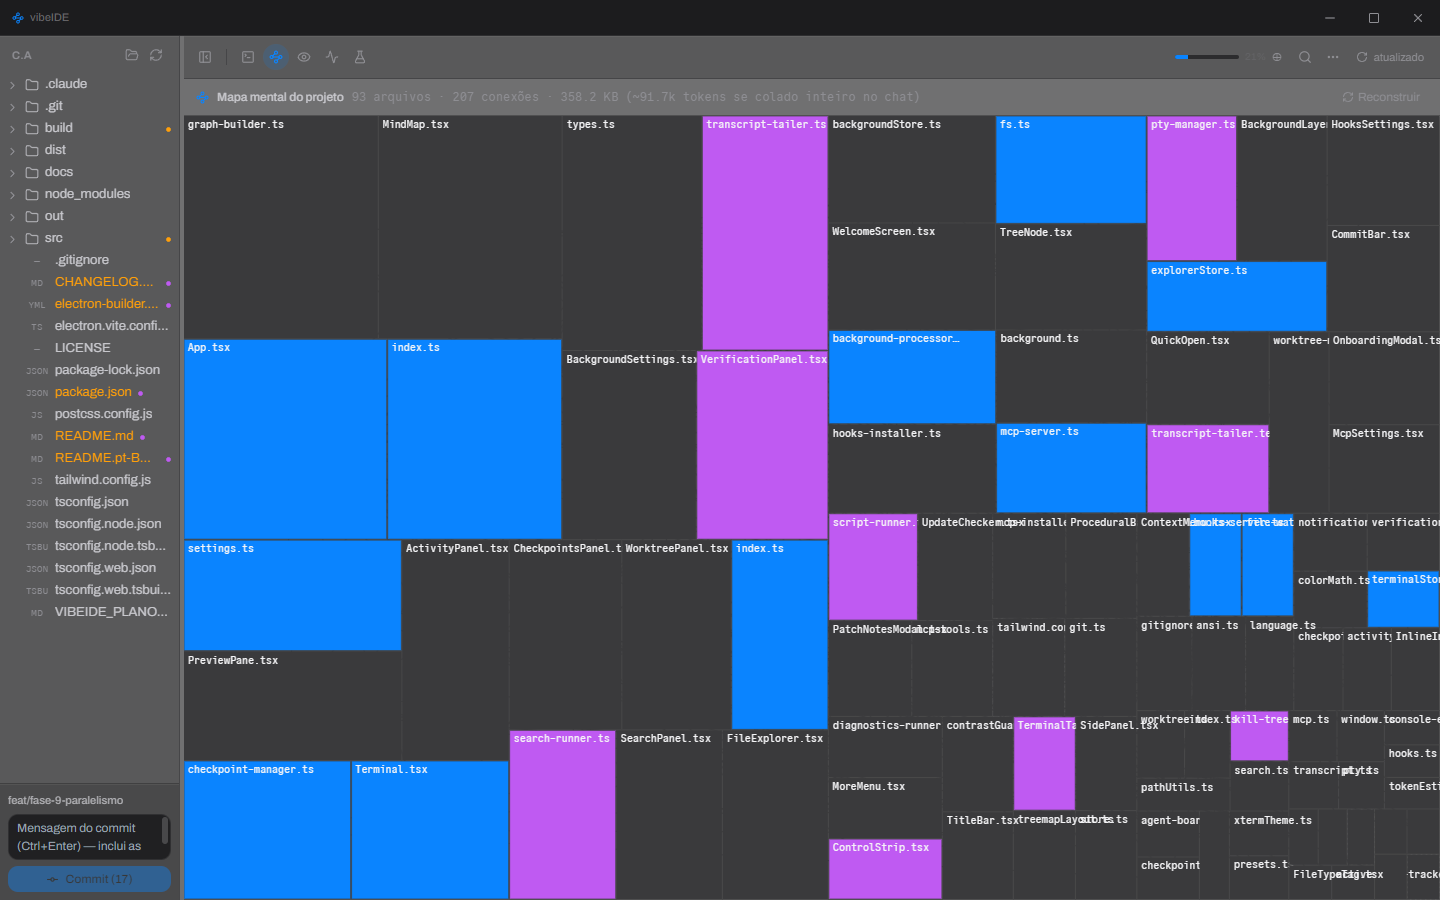
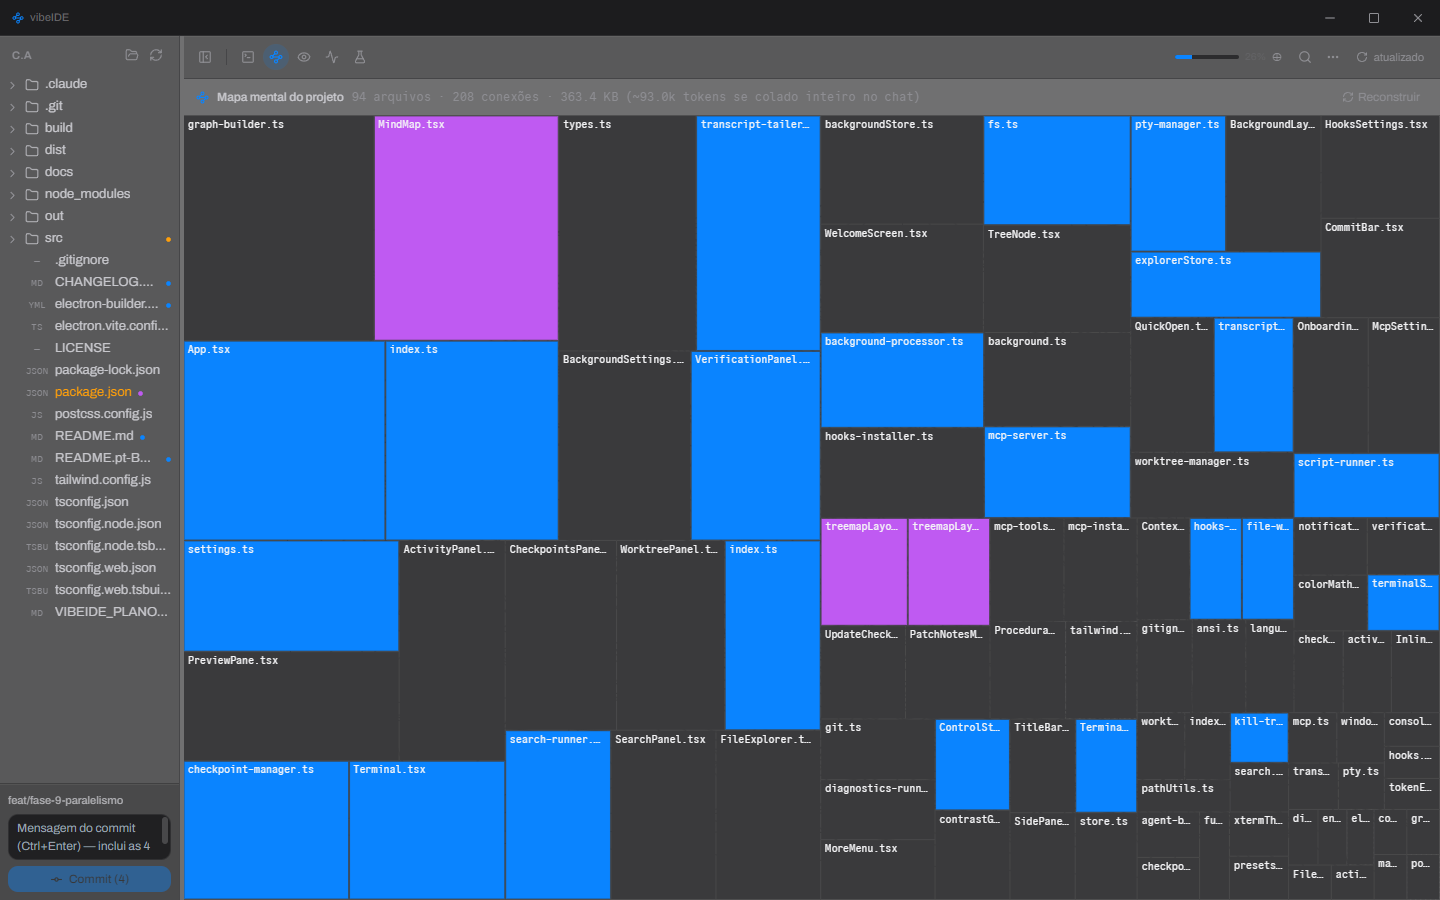
Nomes do mapa mental param de vazar por cima dos vizinhos
O corte do nome era um limite fixo de 22 caracteres, sem nenhuma relação com a
largura do retângulo onde ia ser desenhado. Os retângulos do treemap nunca se
sobrepõem, mas <text> do SVG não é recortado pela caixa irmã — então todo nome
mais largo que o próprio retângulo passava por cima dos vizinhos, embaralhando
a leitura nas regiões de arquivos pequenos.

Agora fitLabel() calcula o corte a partir da largura disponível. Como a fonte é
monoespaçada, quantos caracteres cabem é aritmética — sem medir no DOM, e a
proporção não muda com o zoom. Retângulo baixo demais pro texto caber na altura
não recebe nome nenhum.

O gate antigo (34px de largura na tela) era largo demais pra servir de proteção:
deixava passar um retângulo de 34px com um label de ~132px. O que sobrou dele
cuida só de legibilidade por zoom.

npm test agora roda dois arquivos. O novo cobre a invariante que importa — nenhum
label renderiza mais largo que o retângulo — varrendo larguras de 4 a 400 com
nomes reais do projeto, mais a garantia de que o treemap não sobrepõe (com
tolerância: as bordas encostadas acumulam ~1e-13 de ponto flutuante).

diff --git a/src/renderer/src/components/MindMap/treemapLayout.test.ts b/src/renderer/src/components/MindMap/treemapLayout.test.ts
@@ -1,0 +1,76 @@
+import assert from 'assert'
+import { treemap, fitLabel, LABEL_FONT_SIZE, LABEL_PAD_X, LABEL_BASELINE, type Rect } from './treemapLayout'
+
+/**
+ * A invariante que importa: o label desenhado nunca é mais largo que o retângulo dele. Era
+ * exatamente isso que faltava — o corte era num limite fixo de caracteres, sem olhar a largura
+ * disponível, e o texto atravessava por cima dos vizinhos. Um off-by-one no corte traz o bug
+ * de volta sem quebrar mais nada, então vale a checagem. Rode com `npm test`.
+ */
+
+/** Mesma métrica que fitLabel usa pra decidir — se as duas discordarem, é o teste que está errado. */
+const CHAR_ADVANCE = 0.62
+function renderedWidth(text: string): number {
+  return text.length * LABEL_FONT_SIZE * CHAR_ADVANCE
+}
+
+function rect(w: number, h: number): Rect {
+  return { x: 0, y: 0, w, h }
+}
+
+const TALL = LABEL_BASELINE + 3
+
+// Cabe inteiro: nada de reticências gratuitas.
+assert.strictEqual(fitLabel('App.tsx', rect(300, TALL)), 'App.tsx')
+
+// Não cabe: corta e marca o corte.
+const tight = fitLabel('UpdateChecker.tsx', rect(60, TALL))
+assert.ok(tight, 'um retângulo de 60 de largura ainda comporta algum texto')
+assert.ok(tight.endsWith('…'), 'texto cortado tem que sinalizar o corte')
+assert.ok(tight.length < 'UpdateChecker.tsx'.length, 'texto cortado é mais curto que o original')
+
+// A invariante, varrida numa faixa de larguras e nomes reais do próprio projeto.
+const names = ['a.ts', 'App.tsx', 'ControlStrip.tsx', 'UpdateChecker.tsx', 'transcript-tailer.ts', 'background-processor.ts']
+for (let w = 4; w <= 400; w += 1) {
+  for (const name of names) {
+    const fitted = fitLabel(name, rect(w, TALL))
+    if (fitted === null) continue
+    const available = w - LABEL_PAD_X * 2
+    assert.ok(
+      renderedWidth(fitted) <= available,
+      `"${fitted}" (${renderedWidth(fitted).toFixed(1)}) vazou de um retângulo de ${w} (disponível ${available})`
+    )
+  }
+}
+
+// Retângulo baixo demais: o texto sairia por cima/baixo das bordas, então não desenha nada.
+assert.strictEqual(fitLabel('App.tsx', rect(300, LABEL_BASELINE + 2)), null)
+// Estreito demais pra qualquer coisa legível.
+assert.strictEqual(fitLabel('App.tsx', rect(10, TALL)), null)
+
+// O treemap em si: sem sobreposição e sem retângulo degenerado — é o que garante que o único
+// jeito de dois nomes se encavalarem é o texto vazar.
+const rects = [...treemap(
+  Array.from({ length: 40 }, (_, i) => ({ id: `f${i}`, weight: (i % 7) + 1 })),
+  0, 0, 1000, 700
+).values()]
+assert.strictEqual(rects.length, 40)
+for (const r of rects) assert.ok(r.w > 0 && r.h > 0, 'todo retângulo tem área')
+// Bordas encostadas caem em ~1e-13 de sobreposição por acúmulo de ponto flutuante nas divisões
+// recursivas — invisível em qualquer zoom. A tolerância é pra isso; qualquer sobreposição de
+// verdade é ordens de grandeza maior.
+const EPSILON = 1e-9
+for (let i = 0; i < rects.length; i++) {
+  for (let j = i + 1; j < rects.length; j++) {
+    const a = rects[i]
+    const b = rects[j]
+    const overlapX = Math.min(a.x + a.w, b.x + b.w) - Math.max(a.x, b.x)
+    const overlapY = Math.min(a.y + a.h, b.y + b.h) - Math.max(a.y, b.y)
+    assert.ok(
+      overlapX <= EPSILON || overlapY <= EPSILON,
+      `retângulos ${i} e ${j} se sobrepõem em ${overlapX.toFixed(3)}x${overlapY.toFixed(3)}`
+    )
+  }
+}
+
+console.log('treemapLayout: ok')

diff --git a/src/renderer/src/components/MindMap/MindMap.tsx b/src/renderer/src/components/MindMap/MindMap.tsx
@@ -4,7 +4,7 @@ import type { ProjectGraph, GraphNode } from '@shared/types'
 import { join } from '@renderer/components/Explorer/pathUtils'
 import { useExplorerStore } from '@renderer/store/explorerStore'
 import { formatSize, formatTokens } from '@renderer/components/Preview/tokenEstimate'
-import { treemap, type Rect } from './treemapLayout'
+import { treemap, fitLabel, LABEL_FONT_SIZE, LABEL_PAD_X, LABEL_BASELINE, type Rect } from './treemapLayout'
 import { inkFillClass } from './colors'
 
 interface MindMapProps {
@@ -14,9 +14,12 @@ interface MindMapProps {
 
 const MIN_SCALE = 0.15
 const MAX_SCALE = 8
-/** rect must render at least this wide/tall (world units × zoom) before its label is worth drawing */
-const LABEL_MIN_W = 34
-const LABEL_MIN_H = 14
+/**
+ * Abaixo desta altura na tela (unidades de mundo × zoom) o texto é ilegível de qualquer jeito,
+ * mesmo cabendo no retângulo. Só isso depende do zoom: o que *cabe* é decidido em unidades de
+ * mundo por fitLabel(), e essa proporção não muda com o zoom.
+ */
+const LABEL_MIN_RENDERED_H = 7
 const TRANSFORM_COMMIT_DEBOUNCE_MS = 120
 
 interface ViewTransform {
@@ -223,7 +226,8 @@ export default function MindMap({ rootPath, active }: MindMapProps): JSX.Element
   }, [graph, selectedIds])
 
   const totalSize = graph ? graph.nodes.reduce((sum, n) => sum + n.size, 0) : 0
-  const showLabel = (r: Rect): boolean => r.w * transform.k > LABEL_MIN_W && r.h * transform.k > LABEL_MIN_H
+  const labelFor = (label: string, r: Rect): string | null =>
+    r.h * transform.k < LABEL_MIN_RENDERED_H ? null : fitLabel(label, r)
 
   return (
     <div className="flex h-full w-full flex-col" style={{ display: active ? 'flex' : 'none' }}>
@@ -328,6 +332,7 @@ export default function MindMap({ rootPath, active }: MindMapProps): JSX.Element
                 const isSelected = selectedIds.has(n.id)
                 const isNeighbor = neighbors.has(n.id)
                 const dimmed = selectedIds.size > 0 && !isSelected && !isNeighbor
+                const label = labelFor(n.label, r)
                 return (
                   <g
                     key={n.id}
@@ -352,9 +357,16 @@ export default function MindMap({ rootPath, active }: MindMapProps): JSX.Element
                       strokeWidth={n.inCycle || isSelected ? 1.5 : 0.5}
                       strokeDasharray={n.orphan ? '3,2' : undefined}
                     />
-                    {showLabel(r) && (
-                      <text x={r.x + 4} y={r.y + 12} fontSize={10} className="font-mono" fill="var(--paper)" style={{ userSelect: 'none', pointerEvents: 'none' }}>
-                        {n.label.length > 22 ? n.label.slice(0, 20) + '…' : n.label}
+                    {label && (
+                      <text
+                        x={r.x + LABEL_PAD_X}
+                        y={r.y + LABEL_BASELINE}
+                        fontSize={LABEL_FONT_SIZE}
+                        className="font-mono"
+                        fill="var(--paper)"
+                        style={{ userSelect: 'none', pointerEvents: 'none' }}
+                      >
+                        {label}
                       </text>
                     )}
                   </g>

diff --git a/src/renderer/src/components/MindMap/treemapLayout.ts b/src/renderer/src/components/MindMap/treemapLayout.ts
@@ -61,3 +61,32 @@ export function treemap(items: Weighted[], x: number, y: number, w: number, h: n
   layout(sorted, x, y, w, h, out)
   return out
 }
+
+/** Métricas do label em unidades de mundo — o fontSize não escala por retângulo, então são constantes. */
+export const LABEL_FONT_SIZE = 10
+export const LABEL_PAD_X = 4
+export const LABEL_BASELINE = 12
+/**
+ * Commit Mono, como toda fonte monoespaçada, avança uma fração fixa do em por glifo. 0,62 em
+ * vez dos 0,6 nominais deixa uma folga pras fontes de fallback: o erro cai pro lado de cortar
+ * um caractere a mais, nunca pro lado de vazar no retângulo vizinho.
+ */
+const CHAR_ADVANCE = 0.62
+
+/**
+ * Recorta o label pro que cabe dentro do retângulo, ou null se não cabe nada legível.
+ *
+ * Os retângulos do treemap nunca se sobrepõem, mas `<text>` do SVG não é recortado pelo
+ * retângulo irmão — um nome cortado num limite fixo de caracteres, sem olhar a largura
+ * disponível, atravessa por cima dos vizinhos e embaralha a leitura do mapa inteiro. Como a
+ * fonte é monoespaçada, quantos caracteres cabem é aritmética, sem precisar medir no DOM.
+ */
+export function fitLabel(label: string, r: Rect): string | null {
+  // A baseline fica em LABEL_BASELINE; +3 cobre os descendentes (p, g, y) dentro do retângulo.
+  if (r.h < LABEL_BASELINE + 3) return null
+  const maxChars = Math.floor((r.w - LABEL_PAD_X * 2) / (LABEL_FONT_SIZE * CHAR_ADVANCE))
+  if (maxChars < 3) return null
+  if (label.length <= maxChars) return label
+  // '…' ocupa exatamente uma célula na monoespaçada, então o corte abre espaço pra ele.
+  return label.slice(0, maxChars - 1) + '…'
+}

diff --git a/CHANGELOG.md b/CHANGELOG.md
@@ -6,6 +6,8 @@ Todas as mudanças notáveis do vibeIDE ficam registradas aqui. Formato baseado 
 
 ### Corrigido
 
+- **Nomes de arquivo se sobrepunham no mapa mental** — o nome era cortado num limite fixo de 22 caracteres, sem nenhuma relação com a largura do retângulo em que ia ser desenhado. Como `<text>` do SVG não é recortado pela caixa irmã, todo nome mais largo que o próprio retângulo passava por cima dos vizinhos e embaralhava a leitura do mapa inteiro nas regiões de arquivos pequenos. Agora o corte é calculado a partir da largura disponível (a fonte é monoespaçada, então isso é aritmética, sem medir no DOM), e um retângulo baixo demais pro texto caber na altura simplesmente não recebe nome.
+
 - **App fechava sozinho ao rodar um script na aba Verificação** — se o gerenciador de pacotes (`npm`/`pnpm`/`yarn`) não estivesse no PATH, o processo filho emitia um evento `error` que ninguém escutava. Em Node isso não é um erro tratável: vira exceção não capturada e derruba o processo principal inteiro. Agora a falha aparece como texto no painel de saída, como qualquer outro erro do script.
 - **Terminal podia ficar mudo depois de reabrir** — ao criar um terminal com um id que acabou de ser encerrado, o `onExit` atrasado do processo antigo removia do mapa a sessão *nova*. A partir daí tudo que era digitado ia pro vazio e o app ainda escrevia "processo encerrado" num terminal que estava vivo. A remoção agora confere a identidade da sessão, não só o id.
 - **Terminal em branco sem explicação** — quando o shell não existe ou a pasta do projeto sumiu, o `node-pty` falha na hora; esse erro só rejeitava a chamada interna e o painel ficava preto e vazio. Agora a mensagem real do sistema aparece dentro do próprio terminal.
